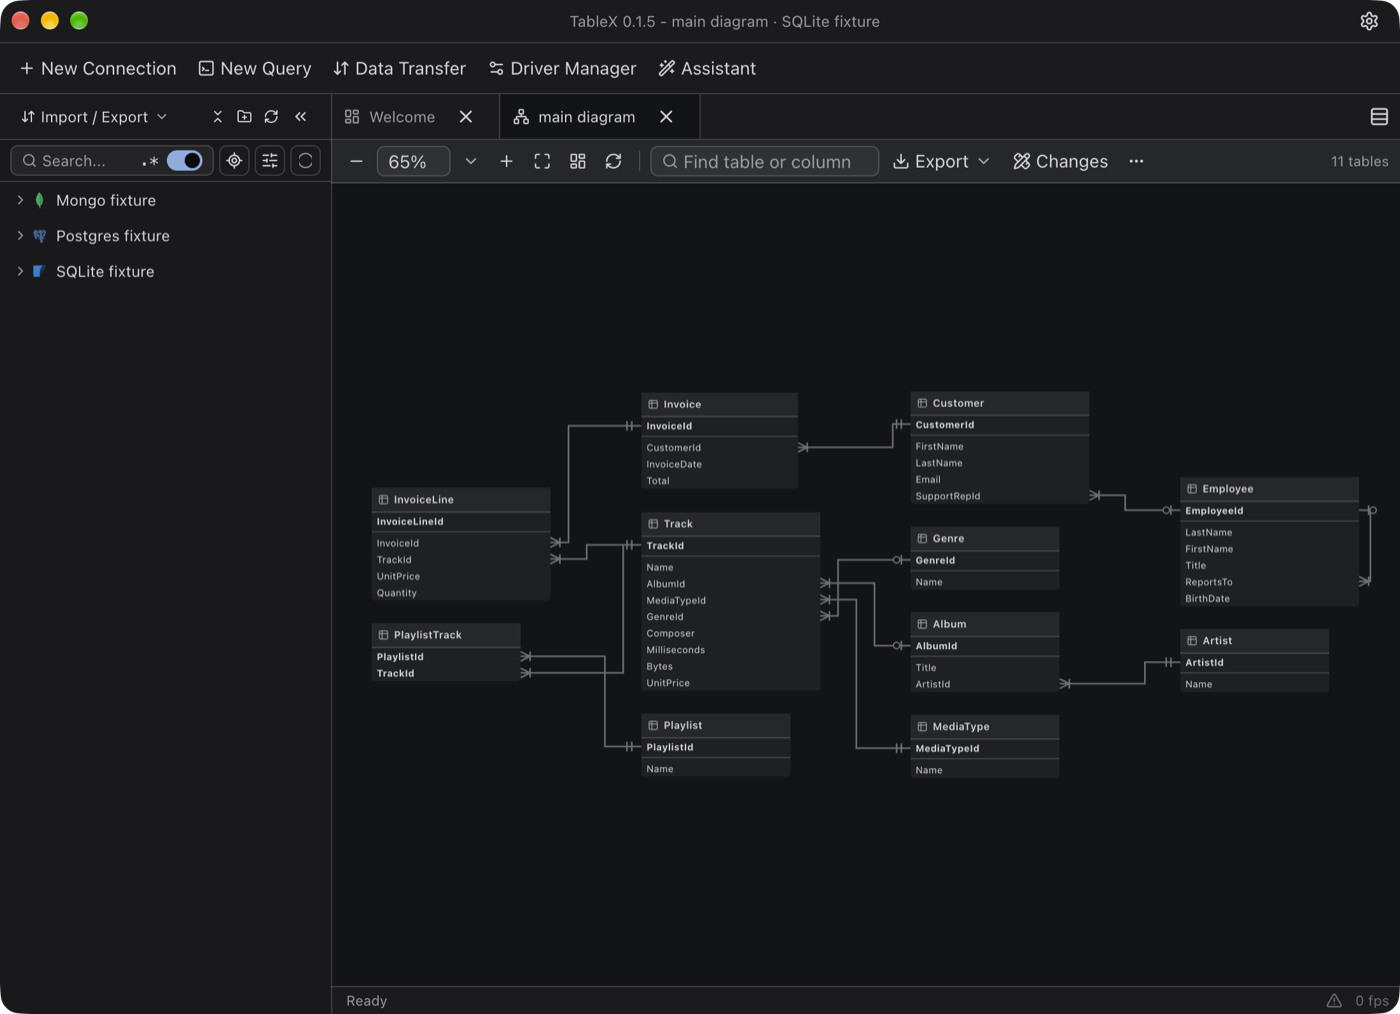
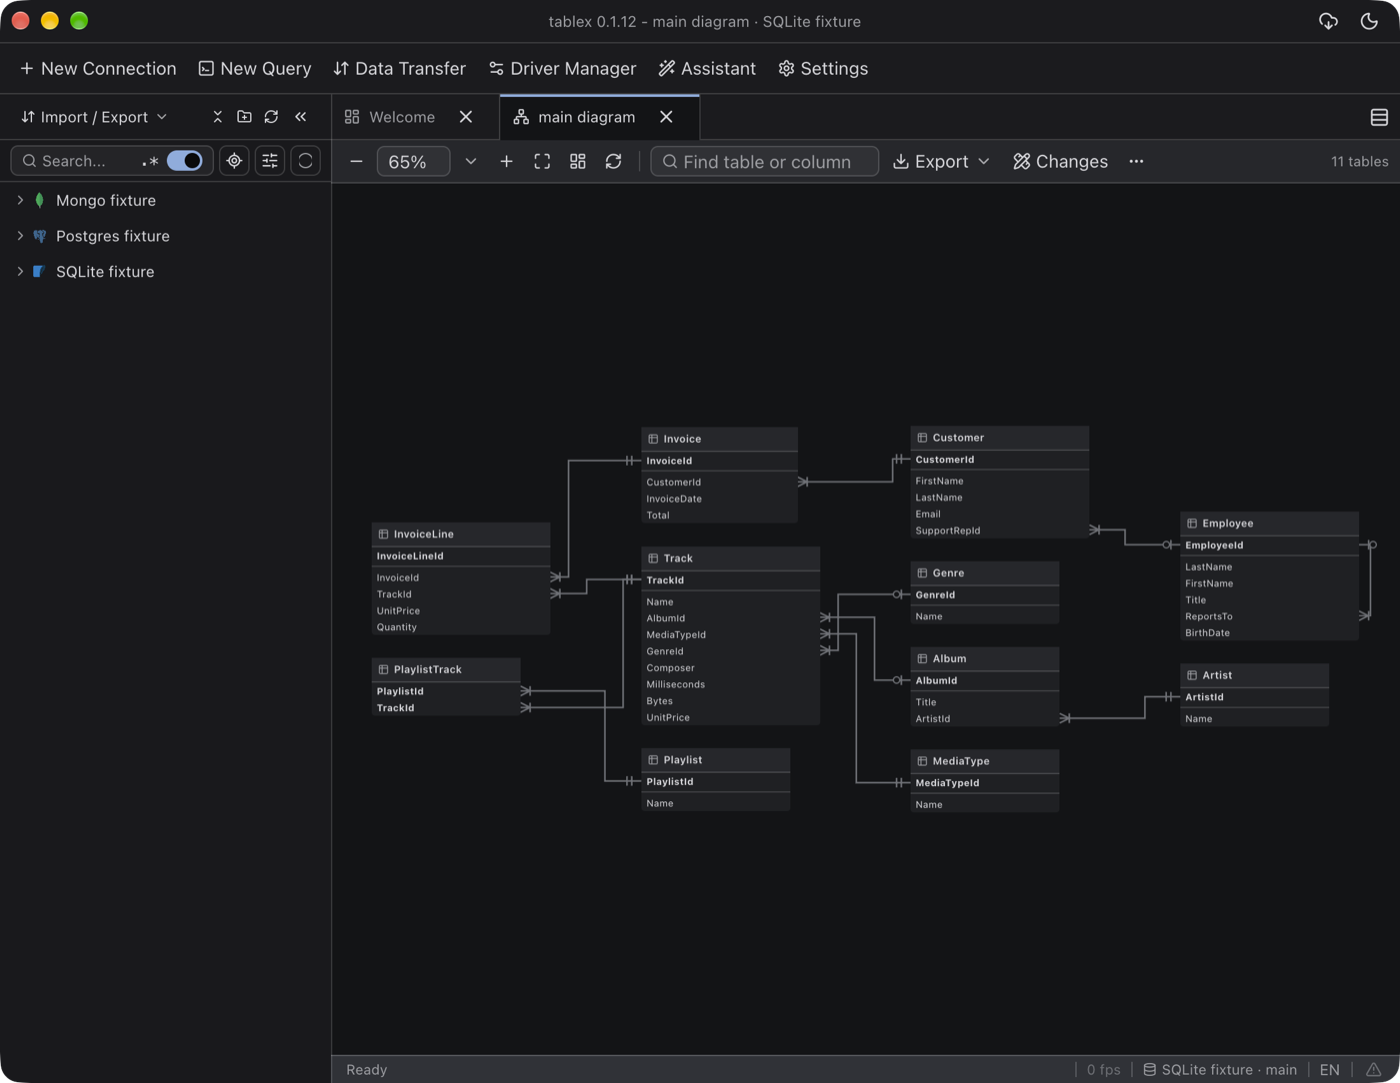
docs: update the readme screenshots for 0.1.12
[skip ci]

diff --git a/README.md b/README.md
@@ -27,20 +27,28 @@ PostgreSQL, MySQL, MariaDB, SQL Server, SQLite, DuckDB, MongoDB, Redis and Click
 
 <table>
   <tr>
+    <td><img src=".github/screenshots/assistant-approval.png" alt="The assistant asking before a dangerous statement" /></td>
+    <td><img src=".github/screenshots/data-files.png" alt="CSV, JSON and Parquet files opened as views" /></td>
+  </tr>
+  <tr>
+    <td align="center">The assistant asks before any change, and says what is dangerous</td>
+    <td align="center">CSV, JSON and Parquet files as tables</td>
+  </tr>
+  <tr>
+    <td><img src=".github/screenshots/query-history.png" alt="Query History with a failed run selected" /></td>
+    <td><img src=".github/screenshots/driver-manager.png" alt="Driver Manager listing the database drivers" /></td>
+  </tr>
+  <tr>
+    <td align="center">Query History across every connection</td>
+    <td align="center">Drivers installed and updated from Driver Manager</td>
+  </tr>
+  <tr>
     <td><img src=".github/screenshots/mongodb.png" alt="A MongoDB collection in the grid" /></td>
     <td><img src=".github/screenshots/diagram.png" alt="A database diagram" /></td>
   </tr>
   <tr>
     <td align="center">MongoDB documents in the same grid</td>
     <td align="center">Database diagram</td>
-  </tr>
-  <tr>
-    <td><img src=".github/screenshots/assistant.png" alt="The AI assistant answering from the schema" /></td>
-    <td><img src=".github/screenshots/split-panes.png" alt="Two editors side by side" /></td>
-  </tr>
-  <tr>
-    <td align="center">AI assistant that reads the schema</td>
-    <td align="center">Split panes</td>
   </tr>
 </table>
 
